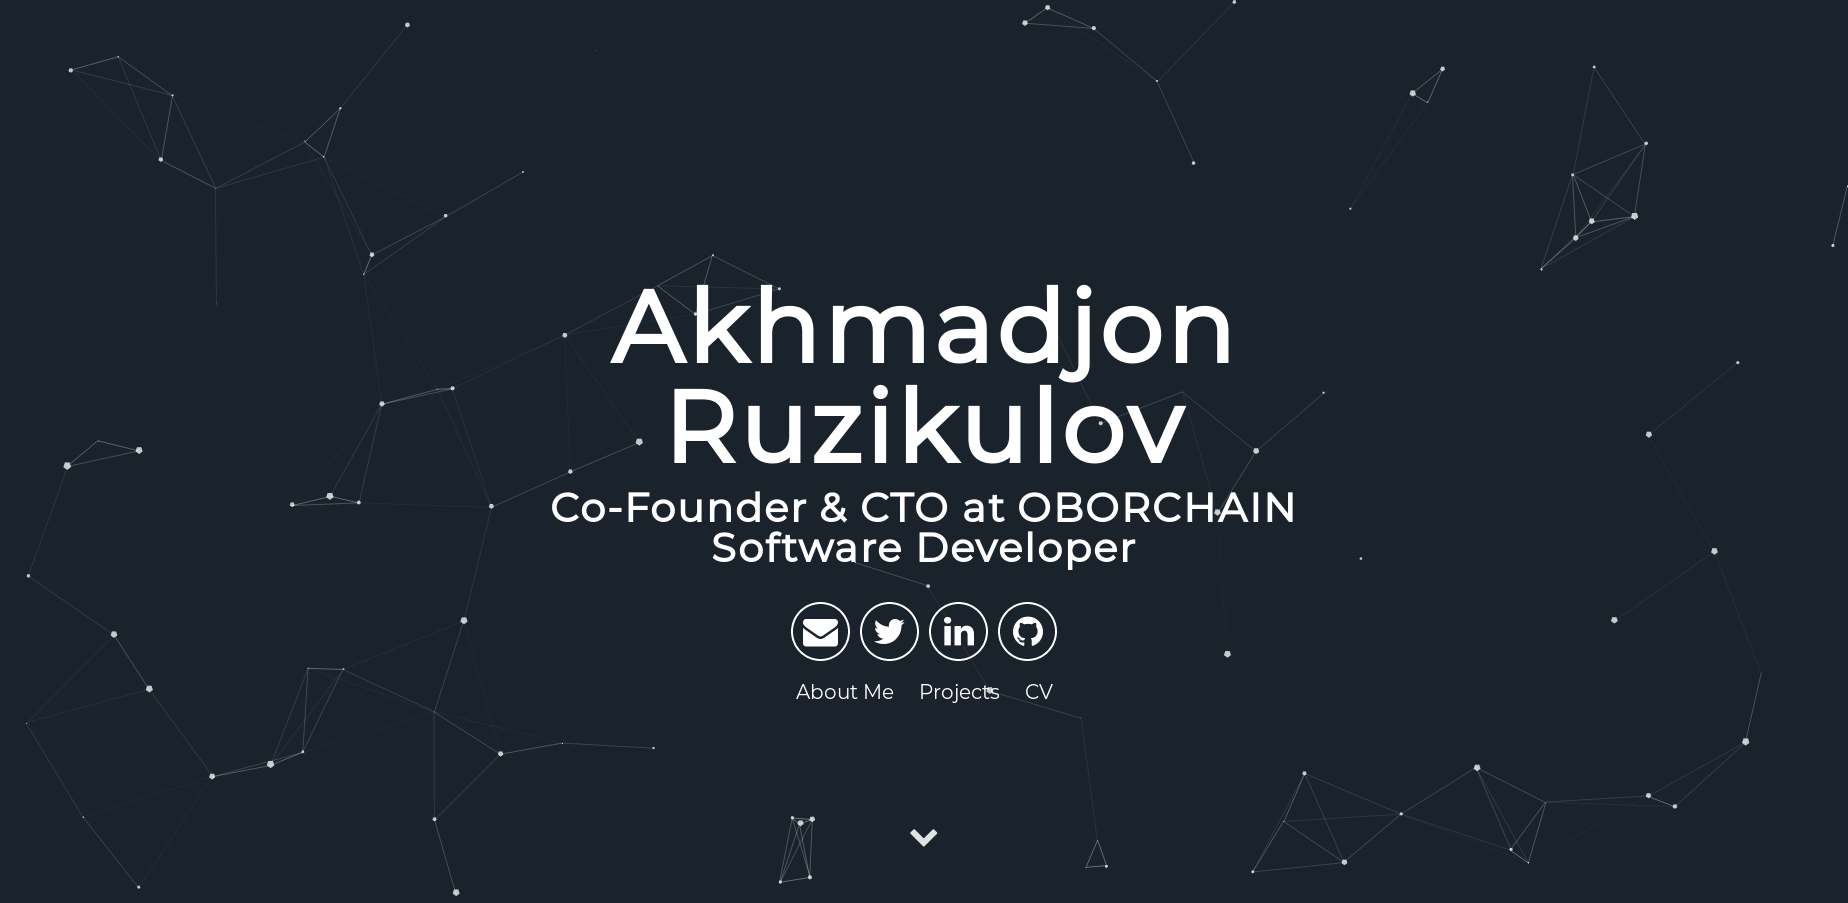
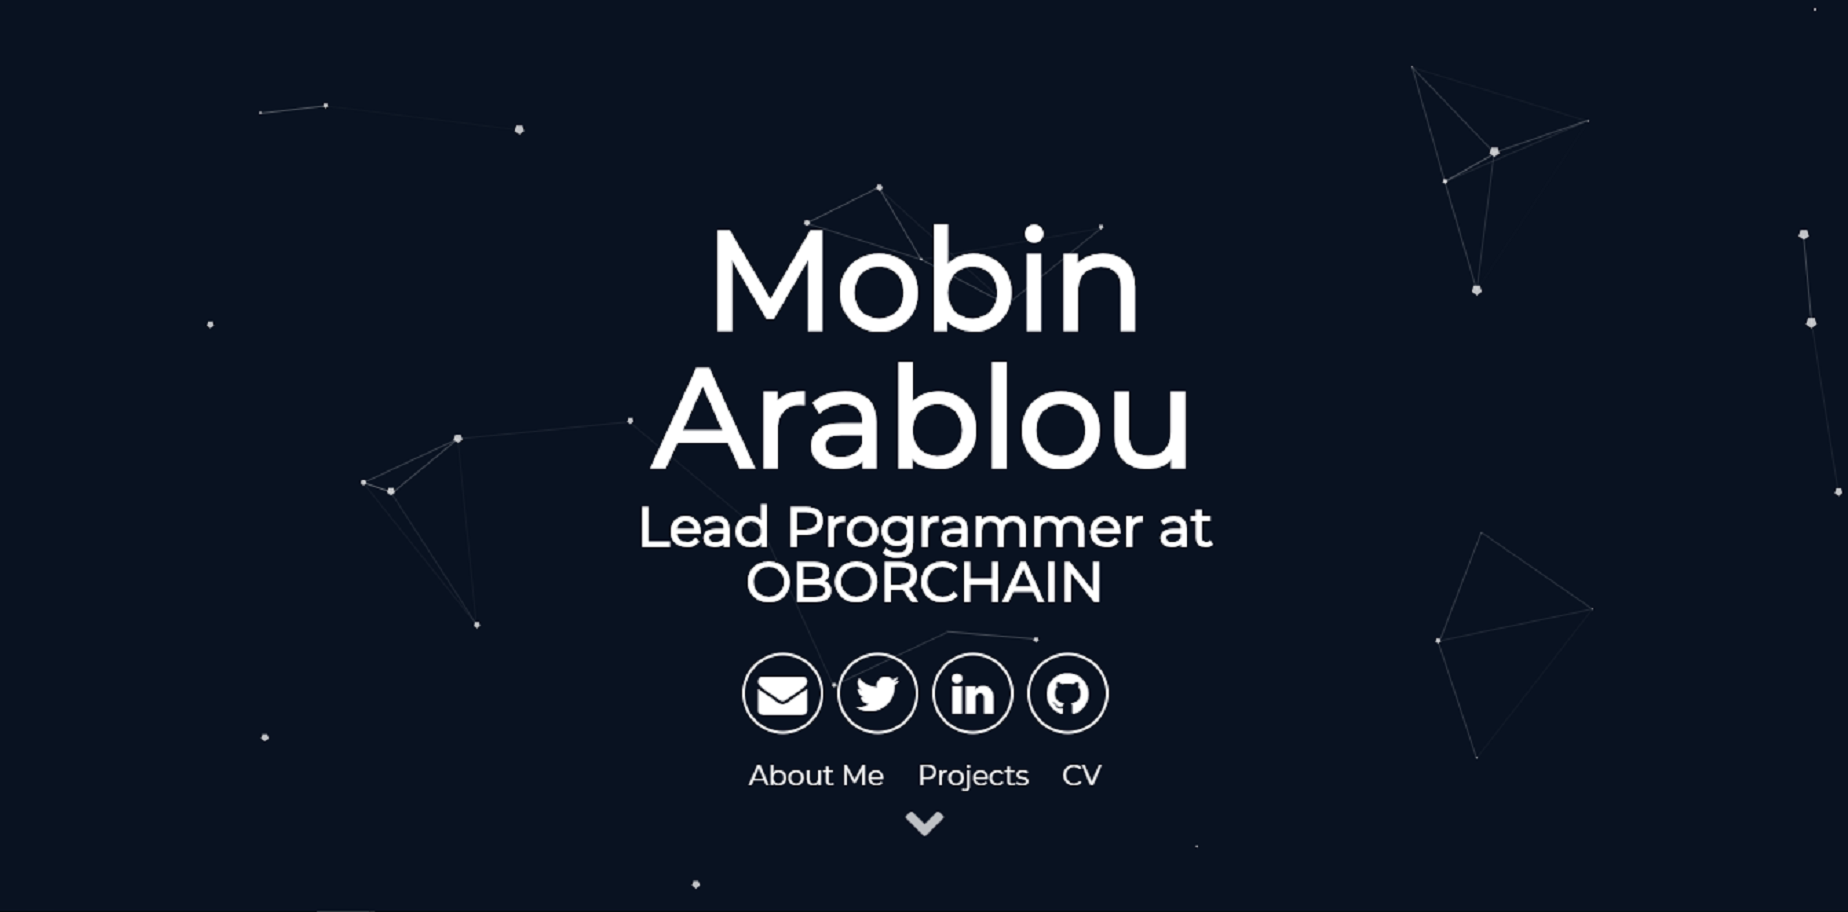
Ok

diff --git a/README.md b/README.md
@@ -16,7 +16,7 @@ The Webpage features:
 ## Basic Setup
 
 1. [Install Jekyll](http://jekyllrb.com)
-2. Fork the [Particle Theme](https://github.com/aruzikulov/aruzikulov.github.io)
+2. Fork the [Particle Theme](https://github.com/Mobinlion/Mobinlion.github.io)
 3. Clone the repo you just forked.
 4. Edit `_config.yml` to personalize your site.
 
@@ -28,16 +28,15 @@ You have to fill some informations on `_config.yml` to customize your site.
 # Site settings
 description: Akhmadjon Ruzikulov's Personal Webpage
 baseurl: "" # the subpath of your site, e.g. /blog/
-url: "https://aruzikulov.github.io" # the base hostname & protocol for your site
+url: "https://Mobinlion.github.io" # the base hostname & protocol for your site
 
 # User settings
-username: Akhmadjon Ruzikulov
-user_description: Co-Founder & CTO at OBORCHAIN <br> Software Developer
-user_title: Akhmadjon Ruzikulov
-email: aruzikulov@hust.edu.cn
-twitter_username: aruzikulov
-github_username:  aruzikulov
-gplus_username:  ruzikulov
+username: Mobin Arablou
+user_description: Lead Programmer at OBORChain
+user_title: Mobin Arablou
+email: Mobin@hust.edu.cn
+twitter_username: MobinArablou
+github_username:  Mobinlion
 ```
 
 **Don't forget to change your url before you deploy your site!**
@@ -59,7 +58,7 @@ In order to compile the assets and run Jekyll on local you need to follow those 
 
 ## Questions
 
-Having any issues file a [GitHub Issue](https://github.com/aruzikulov/aruzikulov.github.io/issues).
+Having any issues file a [GitHub Issue](https://github.com/Mobinlion/Mobinlion.github.io/issues )
 
 ## License
 
